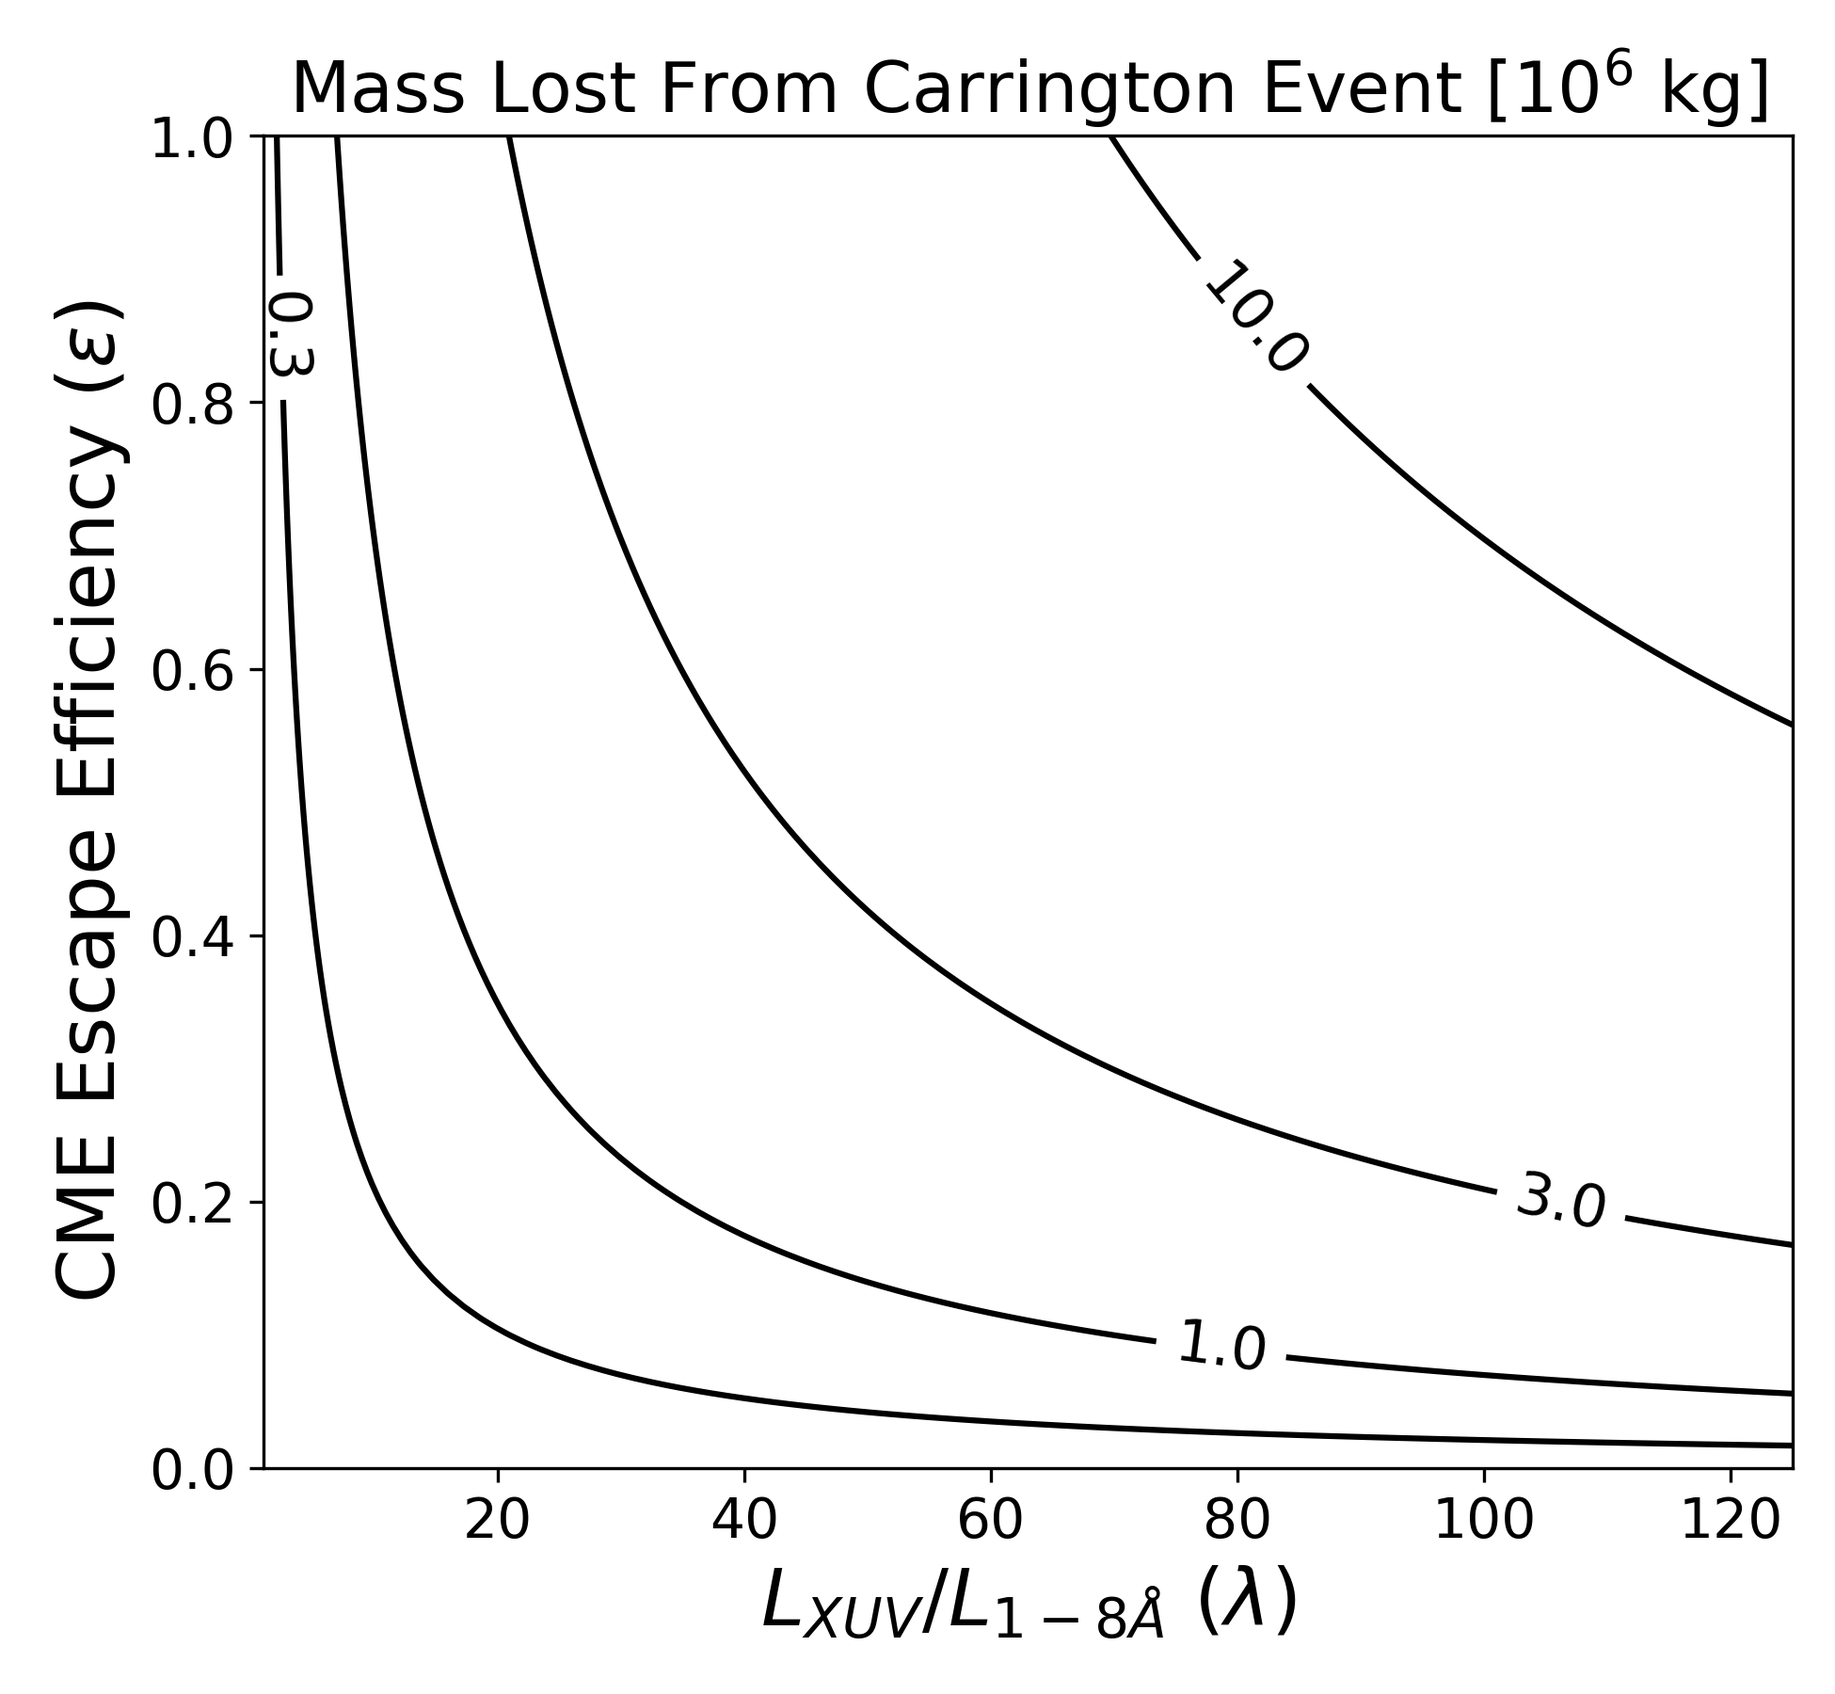
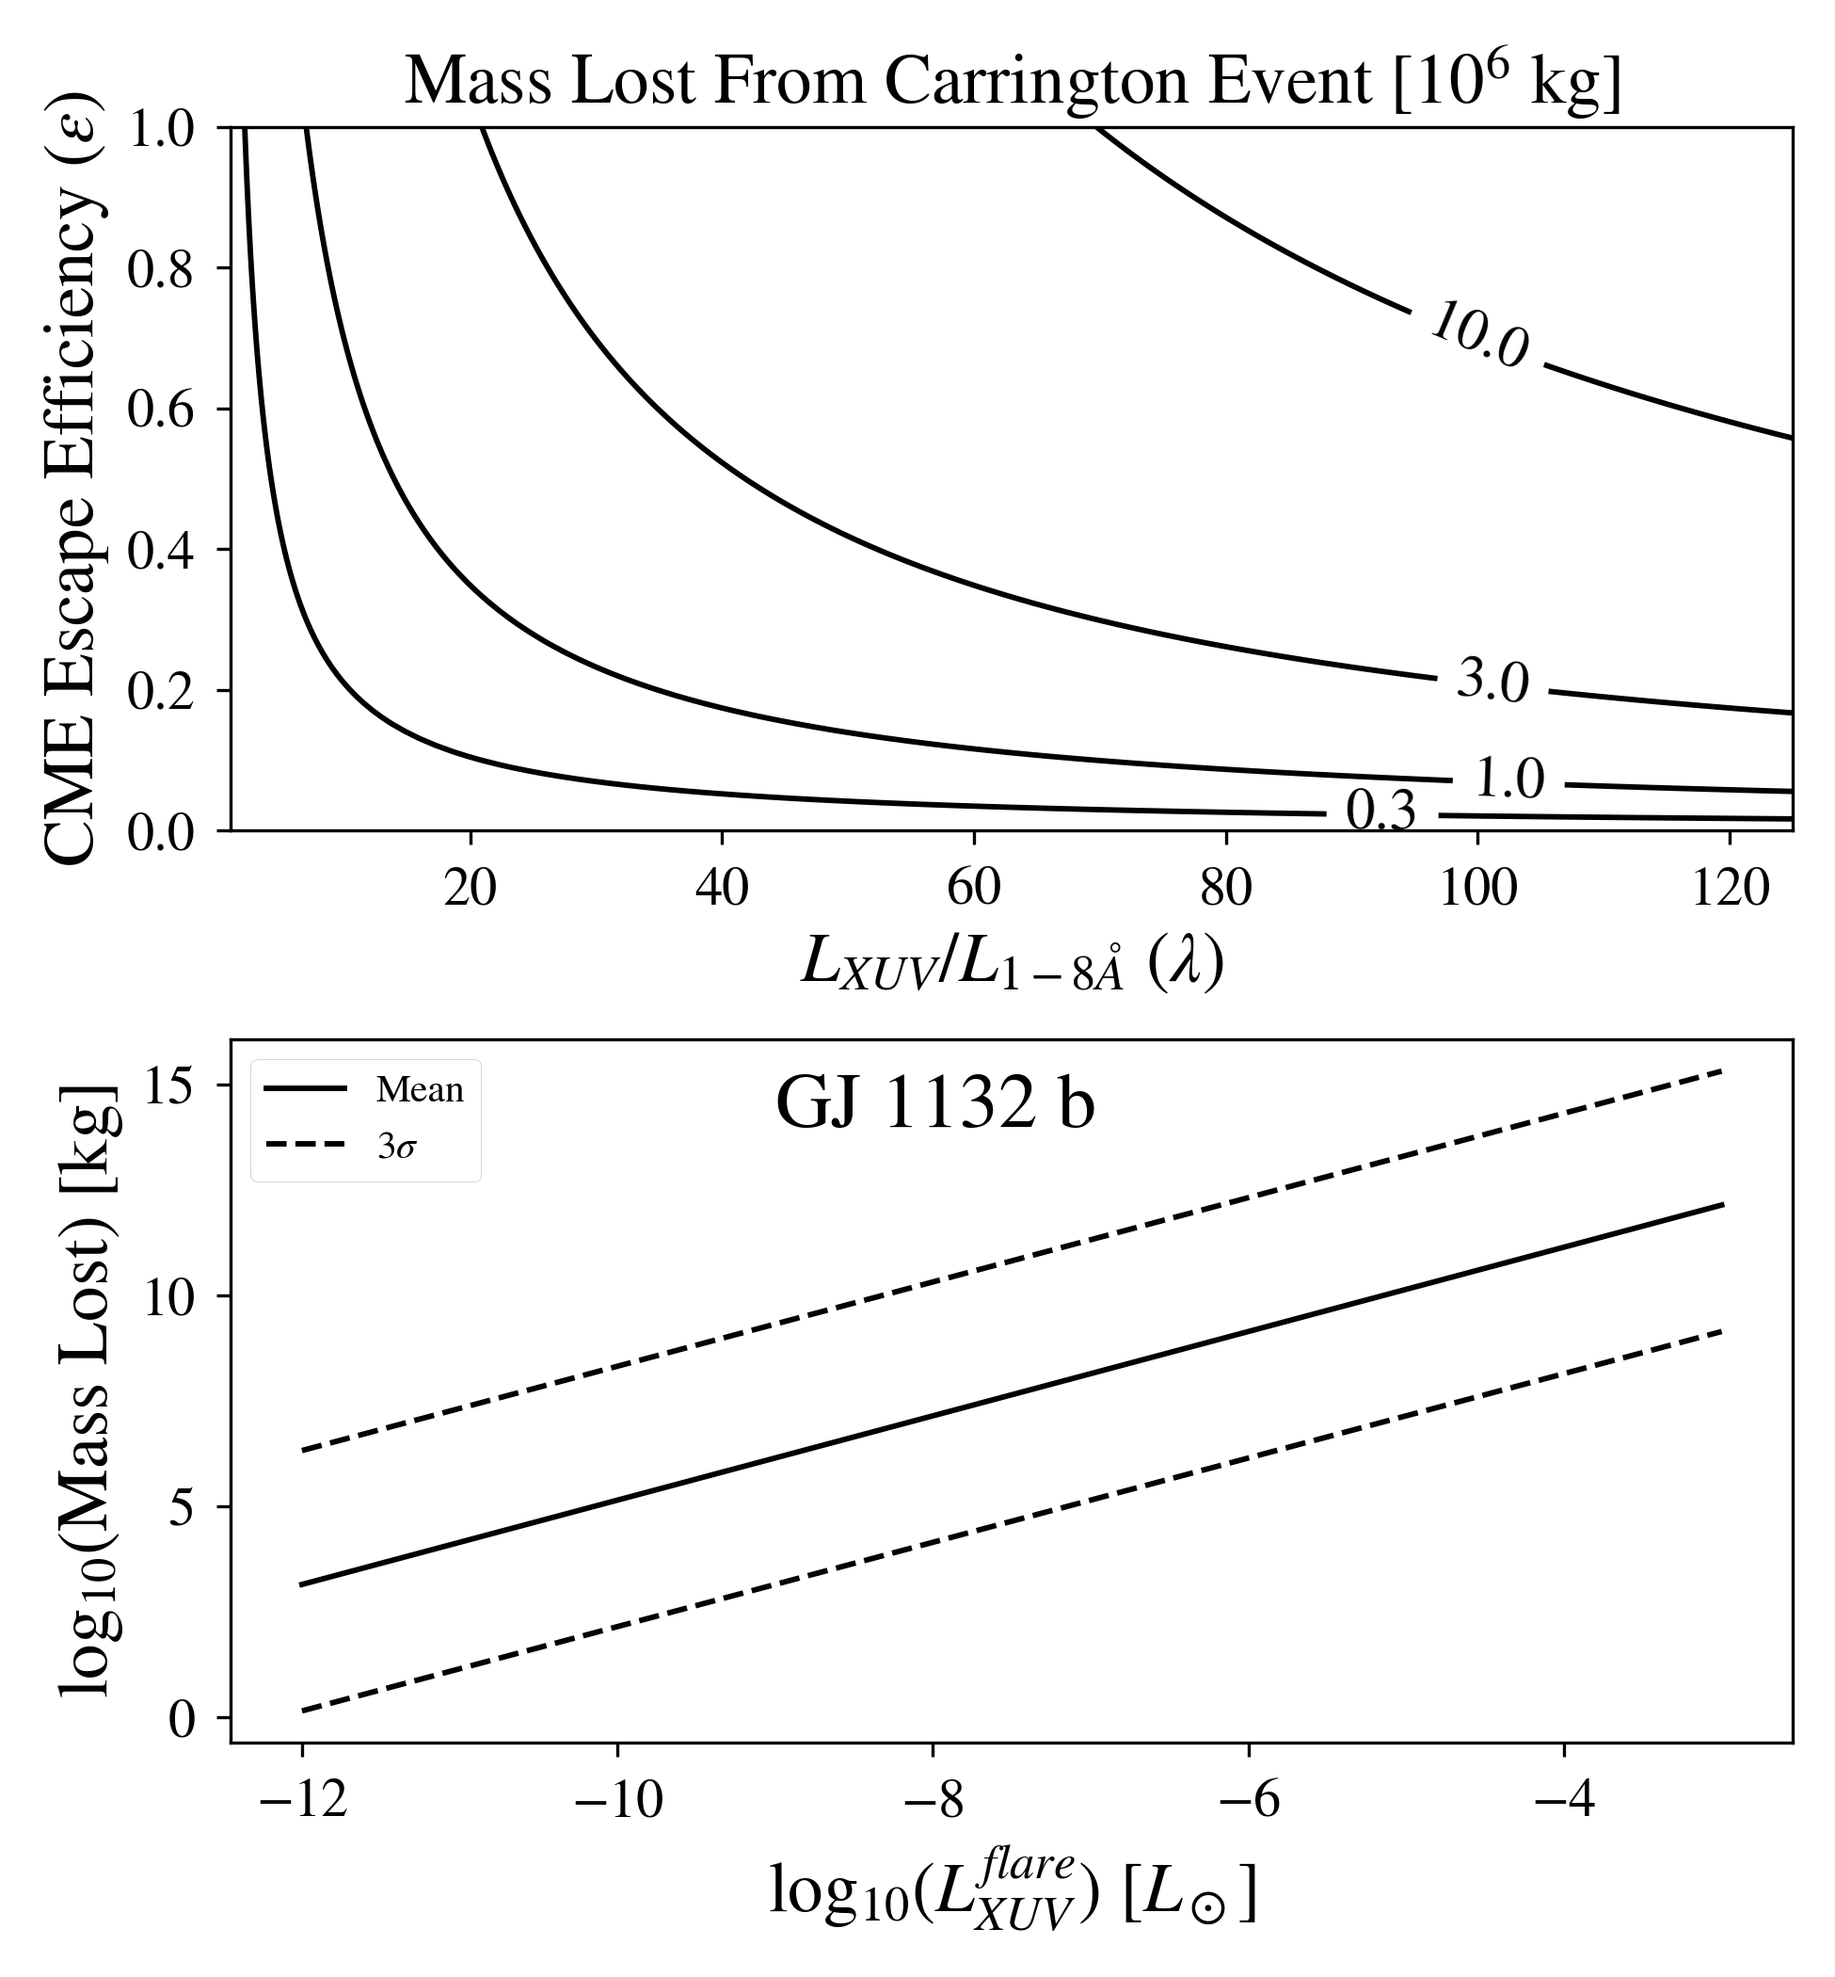
Updated CMEScaling

diff --git a/CME/cmescaling.py b/CME/cmescaling.py
@@ -1,10 +1,12 @@
 import numpy as np
 import matplotlib.pyplot as plt
+import vplot
 
 # Figure initialization
-#fig, ax = plt.subplots(1, 2, figsize=(12, 4))
-fig = plt.figure(figsize=(6.5, 6))
+fig, ax = plt.subplots(nrows = 2, ncols=1, figsize=(6.5, 7))
+#fig = plt.figure(figsize=(6.5, 6))
 
+# Contour plot of lambda vs. epsilon
 # Constants
 pi = np.arccos(-1)
 mproton = 1.6726219e-27
@@ -38,16 +40,40 @@ daCarrHLost = daCarrHLost/1e6
 #daCarrCO2Lost = daCarrWaterLost
 
 # Plot
-contours = plt.contour(daGridLambda, daGridEpsilon, daCarrHLost, colors = 'k', levels=[0.3,1,3,10])
+contours = ax[0].contour(daGridLambda, daGridEpsilon, daCarrHLost, colors = 'k', levels=[0.3,1,3,10])
 #carr_contours = plt.contour(daGridCharLum, daGridFlareLum, daMassCME, colors = 'red', levels=[11.07,12.07,13.07])
-plt.clabel(contours,inline=True, fontsize=15, fmt="%.1f")
+ax[0].clabel(contours,inline=True, fontsize=15, fmt="%.1f")
 #plt.clabel(carr_contours,inline=True, fontsize=15, fmt="%.2f")
 
-plt.xticks(fontsize=14)
-plt.yticks(fontsize=14)
-plt.xlabel(r"$L_{XUV} / L_{1-8\AA}$ ($\lambda$)",fontsize=20)
-plt.ylabel(r"CME Escape Efficiency ($\epsilon$)",fontsize=20)
-plt.title(r"Mass Lost From Carrington Event [$10^6$ kg]",fontsize=18)
+ax[0].tick_params(axis='x',labelsize=14)
+ax[0].tick_params(axis='y',labelsize=14)
+ax[0].set_xlabel(r"$L_{XUV} / L_{1-8\AA}$ ($\lambda$)",fontsize=18)
+ax[0].set_ylabel(r"CME Escape Efficiency ($\epsilon$)",fontsize=18)
+ax[0].set_title(r"Mass Lost From Carrington Event [$10^6$ kg]",fontsize=18)
+
+# Mass lost from GJ 1132 b from CMEs
+dEpsilon = 0.5
+dLambda = 40
+dTheta = 2/3
+rp = 1.91*rearth
+mp = 1.81*mearth
+vesc = np.sqrt(2*bigg*mp/rp)
+a = 0.0157
+
+daLogLXUVFlare = np.linspace(-12,-3,100)
+daMassLostMean = np.log10(dEpsilon*dLambda*rp**2*dTheta/2 * (vproton/vesc) * (10**dLogCarrFluenceMean/dCarrLXLumMean) * a**-2 * mproton * (10**daLogLXUVFlare) * lsun)
+daMassLostMin = np.log10(dEpsilon*dLambda*rp**2*dTheta/2 * (vproton/vesc) * (10**(dLogCarrFluenceMean - 3*dLogCarrFluenceSigma)/(dCarrLXLumMean + 3*dLogCarrFluenceSigma)) * a**-2 * mproton * (10**daLogLXUVFlare) * lsun)
+daMassLostMax = np.log10(dEpsilon*dLambda*rp**2*dTheta/2 * (vproton/vesc) * (10**(dLogCarrFluenceMean + 3*dLogCarrFluenceSigma)/(dCarrLXLumMean - 3*dCarrLXLumSigma)) * a**-2 * mproton * (10**daLogLXUVFlare) * lsun)
+
+ax[1].tick_params(axis='both',labelsize=14)
+ax[1].plot(daLogLXUVFlare,daMassLostMean,'k',label='Mean')
+ax[1].plot(daLogLXUVFlare,daMassLostMin,'k',linestyle='dashed',label=r'$3\sigma$')
+ax[1].plot(daLogLXUVFlare,daMassLostMax,'k',linestyle='dashed')
+ax[1].set_xlabel(r'log$_{10}$($L_{XUV}^{flare}$) [$L_\odot$]',fontsize=18)
+ax[1].set_ylabel(r'log$_{10}$(Mass Lost) [kg]',fontsize=18)
+ax[1].legend(loc='best')
+ax[1].annotate('GJ 1132 b',[-9,14],fontsize=20)
+
 
 plt.tight_layout()
 #plt.show()
